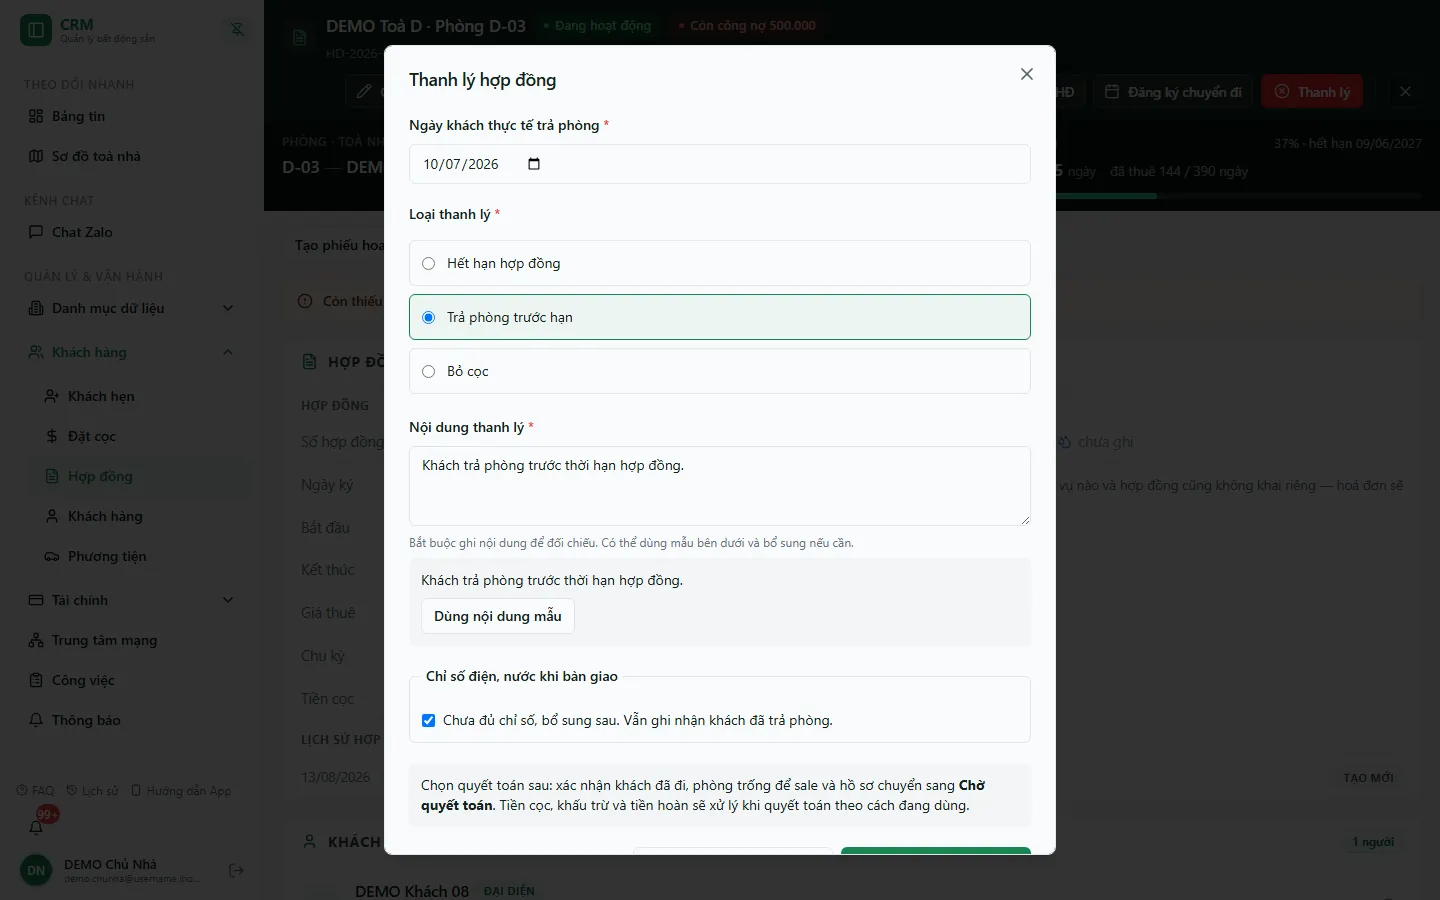
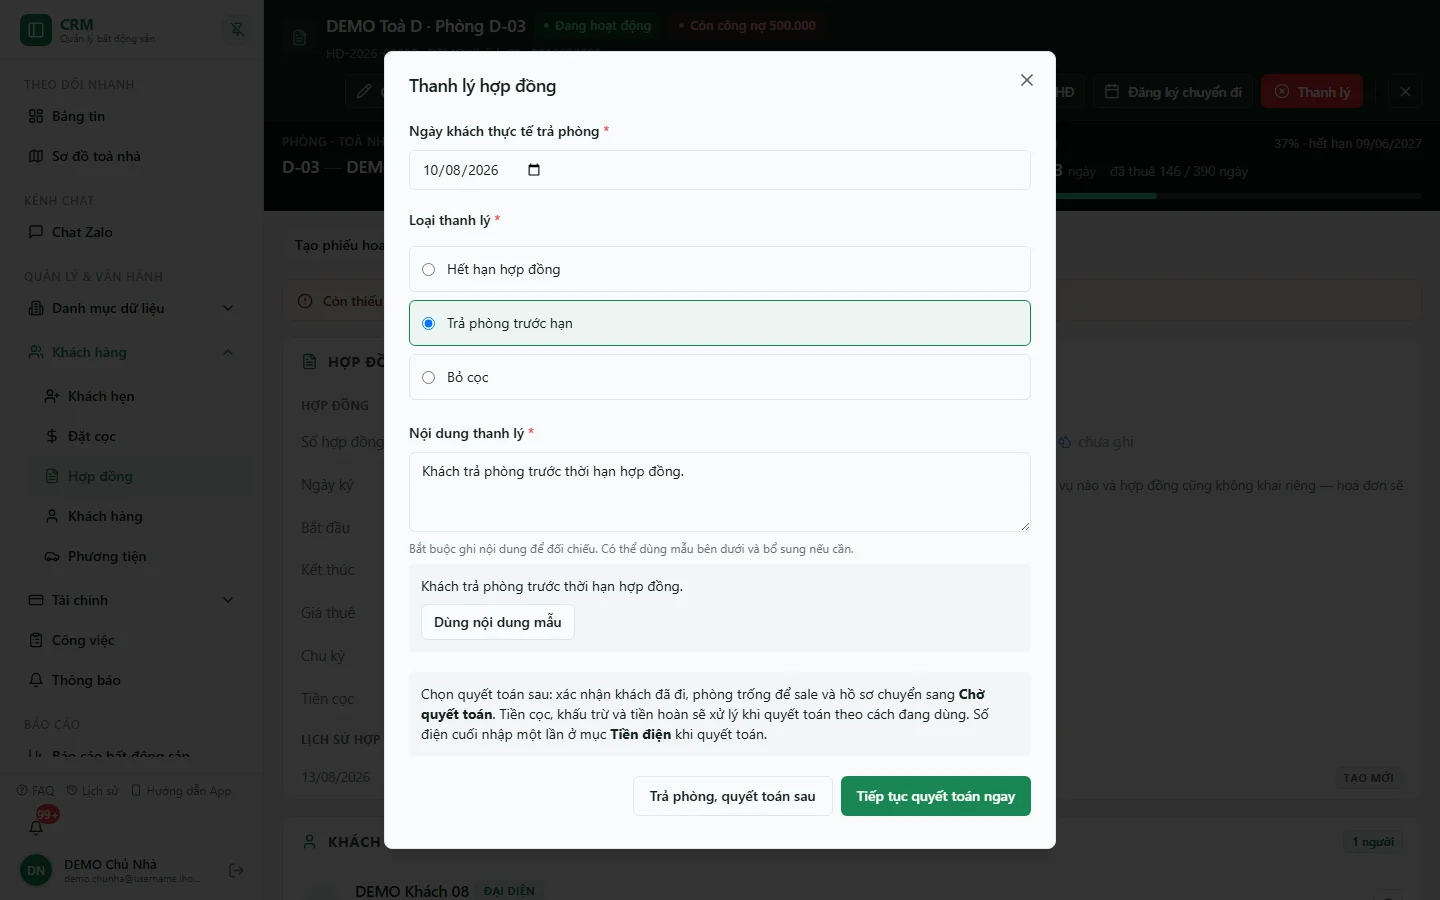
feat(contracts): bước trả phòng không hỏi chỉ số; số điện cuối nhập một lần khi quyết toán
Chủ chốt 08/10/2026 (phương án 1 trên trang giải thích): hộp thoại thanh lý
không còn khối "Chỉ số điện, nước khi bàn giao" ở bước 1. Khối này là ô thứ
hai hỏi cùng con số với "Tiền điện (chốt số)" ở bước 2 và mặc định tích "bổ
sung sau"; 13/14 hồ sơ trả phòng bỏ qua nó. Từ 20261008025958, số chốt ở bước
2 tự thành mốc trả phòng khi quyết toán (ngay, sau hay nhượng), nên không cần
hỏi lại.

- TerminateDialog luôn gửi mốc MISSING kèm lý do "Số cuối nhập ở bước quyết
  toán"; quyết toán xong server tự lấy số chốt.
- Bước 1 nói rõ "Số điện cuối nhập một lần ở mục Tiền điện khi quyết toán";
  dòng Tiền điện ở bước 2 ghi "Số cuối ghi luôn làm chỉ số lúc trả phòng".
- TerminationExtraCharges chọn đồng hồ điện ACTIVE (trước đây `.limit(1)` không
  lọc trạng thái, có thể ghi số chốt vào đồng hồ đã ngừng nên mốc không tự
  khép).
- Tài liệu domain và hướng dẫn (rời phòng, bỏ cọc, quy trình thanh lý) bỏ chỉ
  dẫn tích "bổ sung sau"; ảnh buoc-02-tra-phong chụp lại trên org DEMO.
- Spec fleet contract-moveout-deferred còn khẳng định ô "bổ sung sau" (và vốn
  đỏ từ 29/09 vì không nhập Nội dung thanh lý): ghi known-gaps thay vì sửa,
  vì đổi spec fleet chặn promote khi CI main lập plan production..HEAD.

Kiểm chứng: TerminateDialog.workflow 7 ca (thêm ca bước 1 không hỏi chỉ số),
ContractReturnStep 8, ConfirmContractSigningDialog 14, ContractMeterBoundaryFields
2, mobileSettlement 23. Dev server worktree trỏ TEST: bước 1 và bước 2 desktop,
[…]

diff --git a/src/components/contracts/TerminateDialog.tsx b/src/components/contracts/TerminateDialog.tsx
@@ -56,7 +56,6 @@ import type { ContractWithRelations } from "@/types/contract";
 import { useConfirmContractReturn, useFinalizeContractExitCase } from '@/hooks/useContractExitCases';
 import type { ContractExitCase, ExitKind, ExitSettlementInput } from '@/lib/contractExitCases';
 import { ContractReturnStep } from './ContractReturnStep';
-import { ContractMeterBoundaryFields } from './ContractMeterBoundaryFields';
 import type { MeterBoundaryInput } from '@/lib/contractMeterBoundaries';
 import { useUnpaidInvoices } from "@/hooks/useContracts";
 import { useExcessAmount } from "@/hooks/useInvoices";
@@ -83,6 +82,10 @@ interface TerminateDialogProps {
   exitCase?: ContractExitCase;
 }
 
+// Số điện cuối chỉ nhập MỘT lần ở bước quyết toán ("Tiền điện (chốt số)"): server ghi số chốt rồi tự
+// ghi mốc trả phòng từ số đó (20261008025958). Bước trả phòng không hỏi lại (chủ chốt 08/10/2026).
+const MOVE_OUT_BOUNDARY: MeterBoundaryInput = { state: 'MISSING', reason: 'Số cuối nhập ở bước quyết toán (Tiền điện chốt số)' };
+
 // Format number as VND
 function formatVND(value: number): string {
   return new Intl.NumberFormat("vi-VN").format(value);
@@ -99,7 +102,6 @@ export function TerminateDialog({
   const [actualDate, setActualDate] = useState('');
   const [changeReason, setChangeReason] = useState('');
   const [returnNote, setReturnNote] = useState('');
-  const [meterBoundary, setMeterBoundary] = useState<MeterBoundaryInput | null>({ state: 'MISSING', reason: 'Chưa đủ chỉ số khi nhận bàn giao, bổ sung sau' });
   const requestKeys = useRef(new Map<string, string>());
   const confirmReturn = useConfirmContractReturn();
   const finalizeExit = useFinalizeContractExitCase();
@@ -136,7 +138,6 @@ export function TerminateDialog({
       setActualDate(exitCase?.actual_move_out_on ?? todayISO());
       setChangeReason('');
       setReturnNote(exitCase?.return_note ?? '');
-      setMeterBoundary({ state: 'MISSING', reason: 'Chưa đủ chỉ số khi nhận bàn giao, bổ sung sau' });
       requestKeys.current.clear();
     }
   }, [open, contract.id, exitCase?.id]);
@@ -153,9 +154,9 @@ export function TerminateDialog({
     return key;
   };
   const deferSettlement = async () => {
-    if (!kind || !actualDate || exitCase || !meterBoundary || !returnNote.trim()) return;
+    if (!kind || !actualDate || exitCase || !returnNote.trim()) return;
     const intent = { contractId: contract.id, expectedContractUpdatedAt: contract.updated_at,
-      actualMoveOutOn: actualDate, initialKind: kind, returnNote: returnNote.trim(), settlementMode: 'DEFERRED' as const, meterBoundary };
+      actualMoveOutOn: actualDate, initialKind: kind, returnNote: returnNote.trim(), settlementMode: 'DEFERRED' as const, meterBoundary: MOVE_OUT_BOUNDARY };
     try {
       await confirmReturn.mutateAsync({ ...intent, idempotencyKey: requestKey(intent) });
       onOpenChange(false);
@@ -176,9 +177,8 @@ export function TerminateDialog({
       }
     } else {
       if (!returnNote.trim()) throw new Error('Vui lòng ghi nội dung thanh lý để đối chiếu');
-      if (!meterBoundary) throw new Error('Kiểm tra chỉ số bàn giao hoặc chọn bổ sung sau');
       const intent = { contractId: contract.id, expectedContractUpdatedAt: contract.updated_at,
-        actualMoveOutOn: actualDate, initialKind: kind, returnNote: returnNote.trim(), settlementMode: 'IMMEDIATE' as const, settlement, meterBoundary };
+        actualMoveOutOn: actualDate, initialKind: kind, returnNote: returnNote.trim(), settlementMode: 'IMMEDIATE' as const, settlement, meterBoundary: MOVE_OUT_BOUNDARY };
       await confirmReturn.mutateAsync({ ...intent, idempotencyKey: requestKey(intent) });
     }
   };
@@ -225,11 +225,8 @@ export function TerminateDialog({
             kind={kind} onKindChange={setKind} exitCase={exitCase}
             changeReason={changeReason} onReasonChange={setChangeReason}
             returnNote={returnNote} onReturnNoteChange={setReturnNote}
-            pending={isPending || transferUnavailable} physicalReady={!!exitCase || (!!contract.room_id && !!meterBoundary)}
-            onDefer={() => void deferSettlement()} onContinue={() => setStep(2)}>
-            {!exitCase && !!contract.room_id && <ContractMeterBoundaryFields key={contract.room_id} roomId={contract.room_id}
-              allowMissing disabled={isPending} initialValue={meterBoundary} onChange={setMeterBoundary} />}
-          </ContractReturnStep>
+            pending={isPending || transferUnavailable} physicalReady={!!exitCase || !!contract.room_id}
+            onDefer={() => void deferSettlement()} onContinue={() => setStep(2)} />
         )}
 
         {step === 2 && !financeUnavailable && kind === "FORFEIT" && (

diff --git a/src/components/contracts/TerminationExtraCharges.tsx b/src/components/contracts/TerminationExtraCharges.tsx
@@ -107,6 +107,7 @@ export function TerminationExtraCharges({
         .select("id")
         .eq("room_id", roomId)
         .eq("meter_type", "ELECTRICITY")
+        .eq("status", "ACTIVE")
         .is("deleted_at", null)
         .limit(1);
       const mid = (meters as any)?.[0]?.id ?? null;
@@ -291,7 +292,8 @@ export function TerminationExtraCharges({
           </div>
         </div>
 
-        {/* Dòng 2: Tiền điện (chốt số) */}
+        {/* Dòng 2: Tiền điện (chốt số) — bọc cùng dòng nhắc để divide-y không kẻ vạch giữa hai dòng */}
+        <div>
         <div className="flex items-center gap-2 px-3.5 py-3">
           <Zap className="h-4 w-4 text-muted-foreground shrink-0" />
           <span className="text-sm font-medium shrink-0">Tiền điện</span>
@@ -332,6 +334,9 @@ export function TerminationExtraCharges({
             <span className="ml-1 font-normal text-muted-foreground">đ</span>
           </div>
           <div className="w-9 shrink-0" />
+        </div>
+        {/* Chỗ DUY NHẤT nhập số điện cuối khi thanh lý (chủ chốt 08/10/2026): server ghi số chốt và mốc trả phòng từ đây. */}
+        <p className="-mt-1.5 pb-2.5 pl-[52px] pr-3.5 text-xs text-muted-foreground">Số cuối ghi luôn làm chỉ số lúc trả phòng.</p>
         </div>
 
         {/* Dòng 3: Tiền vệ sinh */}

diff --git a/src/components/contracts/__tests__/TerminateDialog.workflow.test.tsx b/src/components/contracts/__tests__/TerminateDialog.workflow.test.tsx
@@ -56,6 +56,12 @@ describe('thanh lý tách bước trả phòng', () => {
     expect(spies.finalize).not.toHaveBeenCalled();
     expect(transfers.finalize).not.toHaveBeenCalled();
   });
+  it('bước trả phòng không hỏi chỉ số: số điện cuối nhập một lần ở bước quyết toán', () => {
+    render(<TerminateDialog open onOpenChange={vi.fn()} contract={contract} />);
+    expect(screen.queryByText('Chỉ số điện, nước khi bàn giao')).toBeNull();
+    expect(screen.queryByLabelText(/Chưa đủ chỉ số, bổ sung sau/)).toBeNull();
+    expect(screen.getByText(/Số điện cuối nhập một lần/)).toBeTruthy();
+  });
   it('nhánh quyết toán sau gửi ghi chú đã trim cùng ngày/loại, không mở form tiền', async () => {
     const close = vi.fn();
     render(<TerminateDialog open onOpenChange={close} contract={contract} />);

diff --git a/src/components/contracts/ContractReturnStep.tsx b/src/components/contracts/ContractReturnStep.tsx
@@ -79,7 +79,8 @@ export function ContractReturnStep(props: Props) {
     {props.children}
     {!props.exitCase && <p className="rounded-md bg-muted p-3 text-sm">
       Chọn quyết toán sau: xác nhận khách đã đi, phòng trống để sale và hồ sơ chuyển sang <strong>Chờ quyết toán</strong>.
-      Tiền cọc, khấu trừ và tiền hoàn sẽ xử lý khi quyết toán theo cách đang dùng.
+      Tiền cọc, khấu trừ và tiền hoàn sẽ xử lý khi quyết toán theo cách đang dùng. Số điện cuối nhập một lần
+      ở mục <strong>Tiền điện</strong> khi quyết toán.
     </p>}
     <div className="flex flex-col gap-2 sm:flex-row sm:justify-end">
       {!props.exitCase && <Button disabled={!valid || props.pending} variant="outline" onClick={props.onDefer}>

diff --git a/docs/huong-dan-su-dung/03-quan-ly-van-hanh/thanh-ly-move-out/index.md b/docs/huong-dan-su-dung/03-quan-ly-van-hanh/thanh-ly-move-out/index.md
@@ -23,7 +23,7 @@ Bấm **Lập hoá đơn & Thanh lý** rồi **Xác nhận thanh lý** sẽ **gh
 ::: info Điều kiện tiên quyết
 - Quyền **Hợp đồng => Thanh lý** (module `contracts`, action `terminate`) — nút **Đăng ký chuyển đi** và **Thanh lý** chỉ hiện khi bạn có quyền này.
 - Hợp đồng đang hiệu lực và còn gắn phòng/toà nhà.
-- Nên biết **chỉ số điện/nước khi bàn giao**; nếu chưa có, chọn **bổ sung sau** (hồ sơ sẽ vào hàng chờ bổ sung chỉ số).
+- Nên biết **số điện cuối** của đồng hồ; số này nhập ở mục **Tiền điện (chốt số)** khi quyết toán (ngay hoặc sau).
 - Tiền cọc đã thu nằm trên các phiếu cọc của hợp đồng — xem [Đặt cọc](/03-quan-ly-van-hanh/dat-coc/) và [Hoàn / bỏ cọc](/03-quan-ly-van-hanh/hoan-bo-coc/).
 :::
 
@@ -40,9 +40,9 @@ Sau khi lưu: trang chi tiết hiện dải **Khách dự kiến trả phòng: d
 - **Ngày khách thực tế trả phòng \*** (mặc định hôm nay).
 - **Loại thanh lý \***: **Hết hạn hợp đồng**, **Trả phòng trước hạn** hoặc **Bỏ cọc** (bỏ cọc xem trang [Khách bỏ cọc](/03-quan-ly-van-hanh/thanh-ly-forfeit/)).
 - **Nội dung thanh lý \*** — bắt buộc, dùng để đối chiếu và **in trên phiếu hoàn cọc**. Có thể bấm **Dùng nội dung mẫu** rồi bổ sung.
-- **Chỉ số điện, nước khi bàn giao**: mặc định tích **Chưa đủ chỉ số, bổ sung sau. Vẫn ghi nhận khách đã trả phòng.** Bỏ tích để nhập số trên từng đồng hồ đã kiểm tra và **Thời điểm đo thực tế** (số 0 chỉ dùng khi đồng hồ thực sự bằng 0).
+- Bước này **không hỏi chỉ số**: số điện cuối nhập một lần ở mục **Tiền điện** khi quyết toán, và mốc trả phòng tự lấy số đó.
 
-![Hộp Thanh lý hợp đồng: Ngày khách thực tế trả phòng, Loại thanh lý chọn Trả phòng trước hạn, Nội dung thanh lý điền mẫu, khối chỉ số bàn giao](./images/buoc-02-tra-phong.webp)
+![Hộp Thanh lý hợp đồng: Ngày khách thực tế trả phòng, Loại thanh lý chọn Trả phòng trước hạn, Nội dung thanh lý điền mẫu, ghi chú số điện cuối nhập khi quyết toán](./images/buoc-02-tra-phong.webp)
 
 **Bước 3 — Chọn quyết toán ngay hay để sau**:
 
@@ -103,12 +103,12 @@ Khi xác nhận, hệ thống: tạo **hoá đơn thanh lý** kèm các khoản 
 | Tình huống | Cách hiểu / xử lý |
 | --- | --- |
 | Không thấy nút **Thanh lý** / **Đăng ký chuyển đi** | Thiếu quyền `contracts.terminate`, hoặc hợp đồng đã **Thanh lý**. |
-| Nút **Trả phòng, quyết toán sau** / **Tiếp tục quyết toán ngay** bị mờ | Chưa chọn loại thanh lý, chưa nhập **Nội dung thanh lý**, hoặc chưa nhập đủ chỉ số khi đã bỏ tích "bổ sung sau". |
+| Nút **Trả phòng, quyết toán sau** / **Tiếp tục quyết toán ngay** bị mờ | Chưa chọn loại thanh lý hoặc chưa nhập **Nội dung thanh lý**. |
 | Form báo "Không tải được công nợ và số dư khách hàng" | Không quyết toán khi số nợ chưa tải được — tổng có thể sai. Đóng hộp, tải lại trang rồi làm lại. |
 | **Tiền cọc hoàn trả = 0** dù hợp đồng ghi cọc | Khách chưa thực nộp cọc (đã thu 0 đ). Hệ thống không hoàn một nghĩa vụ cọc khách chưa nộp. |
 | **Tiền hoàn trả nhỏ hơn** tổng cọc | Đúng thiết kế: cọc cấn vào công nợ + thu thêm trước, chỉ phần dư mới hoàn khách. |
 | Khách có credit nhưng không được tính | Ô credit mặc định 0. Nhập số muốn cấn (tối đa bằng credit); phần không nhập vẫn treo trên hợp đồng và hộp xác nhận sẽ nhắc. |
-| Chưa biết chỉ số điện cuối | Giữ tích **bổ sung sau** và chọn **Trả phòng, quyết toán sau**. Khi quyết toán, nhập số cuối ở ô **Tiền điện (chốt số)** (khu Thu thêm); mốc trả phòng tự lấy số đó, không nhập lại. |
+| Chưa biết chỉ số điện cuối | Chọn **Trả phòng, quyết toán sau**. Khi quyết toán, nhập số cuối ở ô **Tiền điện (chốt số)** (khu Thu thêm); mốc trả phòng tự lấy số đó. |
 | Đổi loại thanh lý khi quyết toán sau | Phải nhập **Lý do đổi loại thanh lý**; loại ban đầu vẫn được giữ để đối soát. |
 | Lỡ thanh lý nhầm | Không thể hoàn tác vì phiếu đã tạo và phòng đã giải phóng. Liên hệ chủ nhà / kế toán; đừng tự sửa lẻ tẻ. |
 

diff --git a/docs/huong-dan-su-dung/01-bat-dau/quy-trinh-thanh-ly/index.md b/docs/huong-dan-su-dung/01-bat-dau/quy-trinh-thanh-ly/index.md
@@ -20,7 +20,7 @@ Khi một hợp đồng kết thúc — hết hạn, trả trước hạn hay kh
 - Quyền **Hợp đồng => Thanh lý** (`contracts.terminate`) trên toà của hợp đồng — nút **Đăng ký chuyển đi** và **Thanh lý** chỉ hiện khi có quyền này. `contracts.edit` không thay được quyền thanh lý.
 - Hợp đồng đang hiệu lực (hoặc đã có hồ sơ ở tab **Chờ quyết toán**).
 - Tiền cọc đã thu nằm trên các phiếu cọc của hợp đồng — kiểm ở khối **Tài chính** của [Trang chi tiết hợp đồng](/03-quan-ly-van-hanh/hop-dong-chi-tiet/) và màn [Đặt cọc](/03-quan-ly-van-hanh/dat-coc/).
-- Nên có **chỉ số điện/nước khi bàn giao**; chưa có thì chọn bổ sung sau.
+- Nên có **số điện cuối** của đồng hồ; số này nhập ở mục **Tiền điện** khi quyết toán (ngay hoặc sau).
 :::
 
 ## Bản đồ thanh lý
@@ -47,7 +47,6 @@ flowchart TD
 - **Ngày khách thực tế trả phòng** (mặc định hôm nay).
 - **Loại thanh lý**: **Hết hạn hợp đồng**, **Trả phòng trước hạn** hoặc **Bỏ cọc** — quyết định kịch bản quyết toán.
 - **Nội dung thanh lý** — bắt buộc, dùng để đối chiếu và in trên phiếu hoàn cọc; có nút **Dùng nội dung mẫu**.
-- **Chỉ số điện, nước khi bàn giao** — mặc định tích **Chưa đủ chỉ số, bổ sung sau. Vẫn ghi nhận khách đã trả phòng.**; bỏ tích để nhập số đã kiểm tra trên từng đồng hồ và **Thời điểm đo thực tế**.
 
 **Bước 3**: **Chọn quyết toán ngay hay để sau.**
 
@@ -123,7 +122,7 @@ Số quyết toán = (Cọc hoàn trả + Tiền thừa áp vào + Hoàn lại k
 | Tình huống | Nguyên nhân & cách xử lý |
 | --- | --- |
 | Không thấy nút **Thanh lý** / **Đăng ký chuyển đi** | Thiếu quyền `contracts.terminate`, hoặc hợp đồng đã **Thanh lý**. |
-| Nút **Trả phòng, quyết toán sau** / **Tiếp tục quyết toán ngay** mờ | Chưa chọn loại thanh lý, chưa nhập **Nội dung thanh lý**, hoặc bỏ tích "bổ sung sau" mà chưa nhập đủ chỉ số. |
+| Nút **Trả phòng, quyết toán sau** / **Tiếp tục quyết toán ngay** mờ | Chưa chọn loại thanh lý hoặc chưa nhập **Nội dung thanh lý**. |
 | Form báo "Không tải được công nợ và số dư khách hàng" | Không quyết toán khi số nợ chưa tải được. Đóng hộp, tải lại trang rồi làm lại. |
 | **Tiền cọc hoàn trả = 0** dù hợp đồng ghi cọc | Khách chưa thực nộp cọc (đã thu 0 đ). |
 | Đã quyết toán nhưng khách chưa nhận tiền | Phiếu **Trả khách thanh lý** còn chờ duyệt, chưa có sổ quỹ. Chọn sổ, duyệt/chi; kiểm phiếu thành **Đã Chi**. |

diff --git a/docs/he-thong/06-cong-to-chi-so.md b/docs/he-thong/06-cong-to-chi-so.md
@@ -4,9 +4,9 @@
 
 ## Chỉ số bàn giao giữa hai lượt khách (cập nhật 28/09/2026)
 
-Khi trả phòng hoặc ký/nhận phòng, dùng **Chỉ số điện, nước khi bàn giao** để nhập số thực tế của đúng đồng hồ và thời điểm đo. **Số 0 là số đã đọc**, không dùng thay cho số chưa biết.
+Khi ký/nhận phòng, dùng **Chỉ số điện, nước khi bàn giao** để nhập số thực tế của đúng đồng hồ và thời điểm đo. **Số 0 là số đã đọc**, không dùng thay cho số chưa biết.
 
-- **Khách cũ trả:** thiếu số thì chọn **Chưa đủ chỉ số, bổ sung sau**. Vẫn nhận bàn giao và đưa phòng lên sale. Số điện cuối nhập ở ô **Tiền điện (chốt số)** khi quyết toán; quyết toán xong, mốc trả phòng tự lấy đúng số đó (chủ chốt 08/10/2026).
+- **Khách cũ trả:** bước trả phòng không hỏi chỉ số. Số điện cuối nhập một lần ở ô **Tiền điện (chốt số)** khi quyết toán (ngay hoặc sau); quyết toán xong, mốc trả phòng tự lấy đúng số đó (chủ chốt 08/10/2026). Chưa quyết toán vẫn nhận bàn giao và đưa phòng lên sale.
 - **Phần thiếu/cần kiểm tra:** danh sách **Chờ bổ sung / kiểm tra chỉ số** chỉ còn hồ sơ đã quyết toán mà chưa có chỉ số chốt, hoặc số bổ sung chưa khớp số đã tính tiền — khác số chốt, hoặc phần cuối chưa tính (**Cần đối soát**: kiểm hoá đơn quyết toán rồi bấm **Đã đối soát, giữ số này**, hoặc sửa về đúng số). Hồ sơ còn chờ quyết toán nằm ở danh sách Chờ quyết toán và không sửa mốc tay được: số cuối nhập ở bước quyết toán. Bỏ cọc không cần số chốt; số đầu của khách sau do quản lý nhập khi làm hợp đồng mới.
 - **Khách mới nhận:** cần chỉ số đầu vào riêng đã xác minh cho các đồng hồ đang dùng; không lấy số chưa biết hoặc số khách cũ làm mặc định. Mỗi lượt giữ mốc riêng.
 

diff --git a/docs/he-thong/16-thanh-ly-hop-dong.md b/docs/he-thong/16-thanh-ly-hop-dong.md
@@ -3,7 +3,7 @@
 ## Quy trình thao tác hiện tại (cập nhật 28/09/2026)
 
 1. Mở **Thanh lý** đúng hợp đồng. Nhập **Ngày khách thực tế trả phòng** đã bàn giao (không ngày tương lai) và loại bắt buộc: **Hết hạn hợp đồng**, **Trả phòng trước hạn** hoặc **Bỏ cọc**. Báo ngày dự kiến trả là thao tác riêng, khách vẫn ở.
-2. Ghi chỉ số điện/nước đã kiểm tra; thiếu thì chọn bổ sung sau. Thiếu số khách cũ không chặn xác nhận khách cũ đã trả phòng hoặc đưa lên sale; bàn giao khách mới vẫn cần mốc nhận đã xác minh.
+2. Bước trả phòng không hỏi chỉ số: số điện cuối nhập một lần ở mục **Tiền điện (chốt số)** khi quyết toán (ngay hoặc sau), và mốc trả phòng tự lấy số đó. Chưa quyết toán vẫn xác nhận được khách cũ đã trả phòng và đưa lên sale; bàn giao khách mới vẫn cần mốc nhận đã xác minh.
 3. **Trả phòng, quyết toán sau:** giải phóng phòng, hồ sơ thành **Chờ quyết toán**; chưa thu/chi, khấu trừ, hoàn cọc hay xử lý nợ.
 4. **Tiếp tục quyết toán ngay:** nhập form tiền đang dùng và xác nhận. Ngày thực trả cố định; cách xử lý cọc, nợ, credit, thu/hoàn và duyệt phiếu giữ nguyên.
 5. Hồ sơ chờ mở tại **Quyết toán hồ sơ này** trong chi tiết hợp đồng cũ hoặc danh sách **Chờ quyết toán**. Đổi loại phải ghi lý do; lịch sử giữ loại ban đầu, loại mới, người đổi và thời điểm. Không sửa ngày bàn giao đã ghi.

diff --git a/docs/he-thong/05-hop-dong.md b/docs/he-thong/05-hop-dong.md
@@ -397,7 +397,7 @@ Chi tiết các bước mới so với mô tả cũ (luồng legacy):
 
 #### Luồng trả phòng và quyết toán
 
-Trong **Thanh lý**, chọn **Ngày khách thực tế trả phòng** đã bàn giao và loại **Hết hạn hợp đồng**, **Trả phòng trước hạn** hoặc **Bỏ cọc**. Không chọn ngày tương lai. Ghi chỉ số đã kiểm tra hoặc chọn bổ sung sau nếu thiếu.
+Trong **Thanh lý**, chọn **Ngày khách thực tế trả phòng** đã bàn giao và loại **Hết hạn hợp đồng**, **Trả phòng trước hạn** hoặc **Bỏ cọc**. Không chọn ngày tương lai. Số điện cuối nhập một lần ở mục **Tiền điện** khi quyết toán (ngay hoặc sau); mốc trả phòng tự lấy số đó.
 
 - **Trả phòng, quyết toán sau:** kết thúc lượt ở, giải phóng phòng và lưu **Chờ quyết toán**; chưa phát sinh thu/chi, khấu trừ hay hoàn cọc.
 - **Tiếp tục quyết toán ngay:** mở form tiền hiện hành theo loại đã chọn; ngày thực trả giữ cố định.
